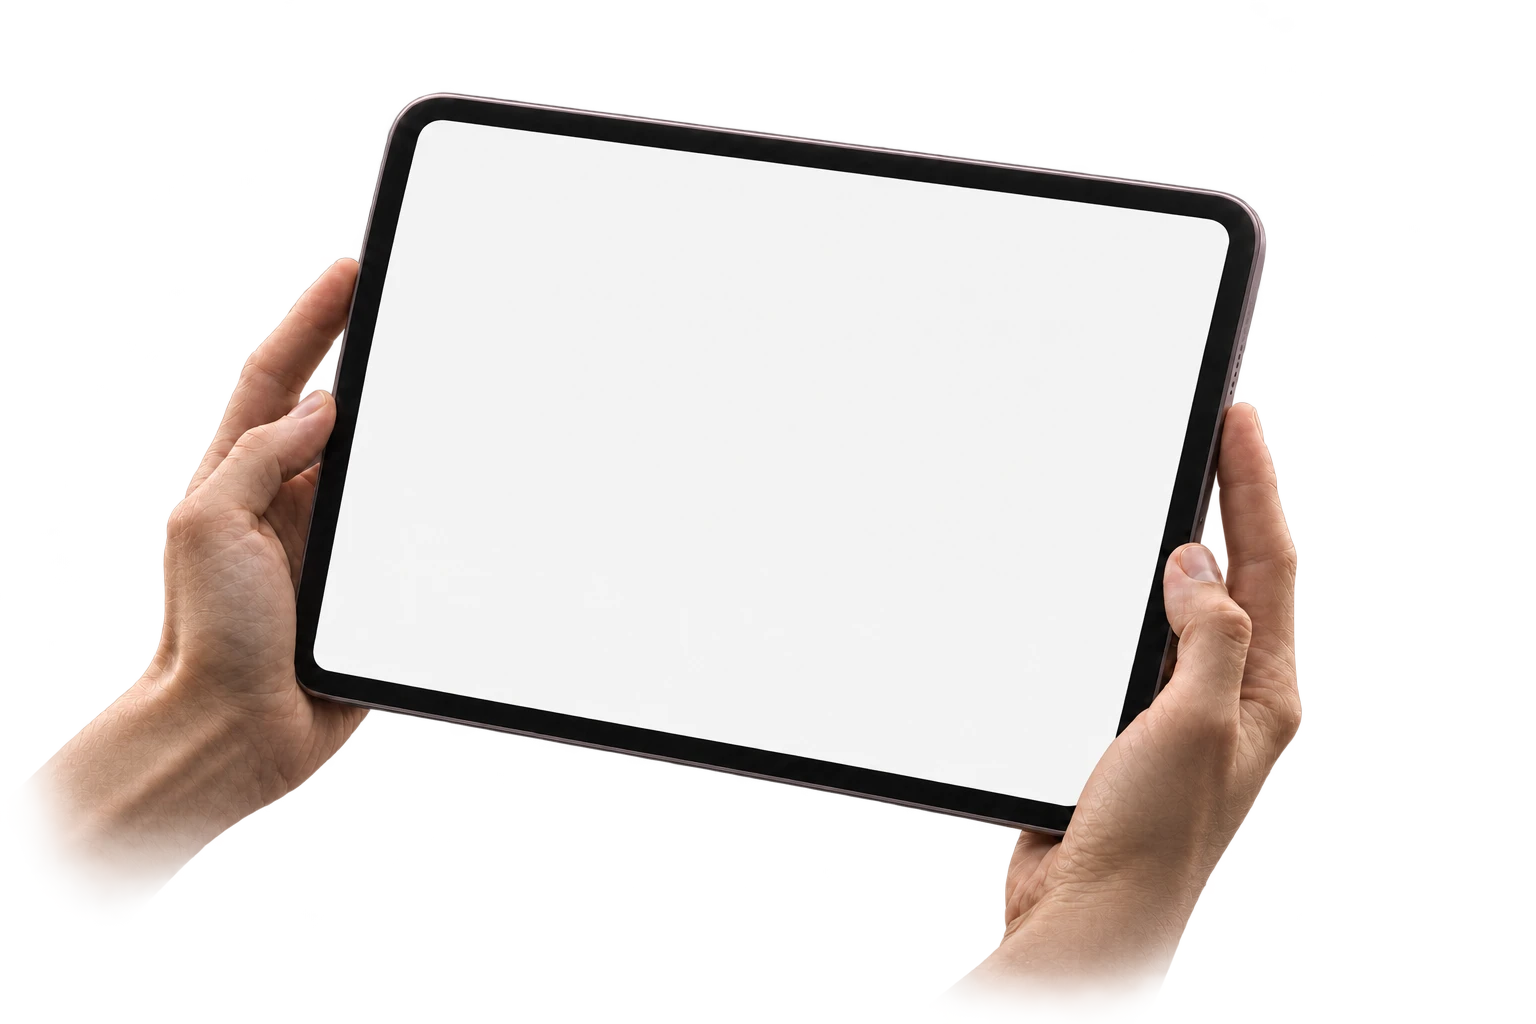
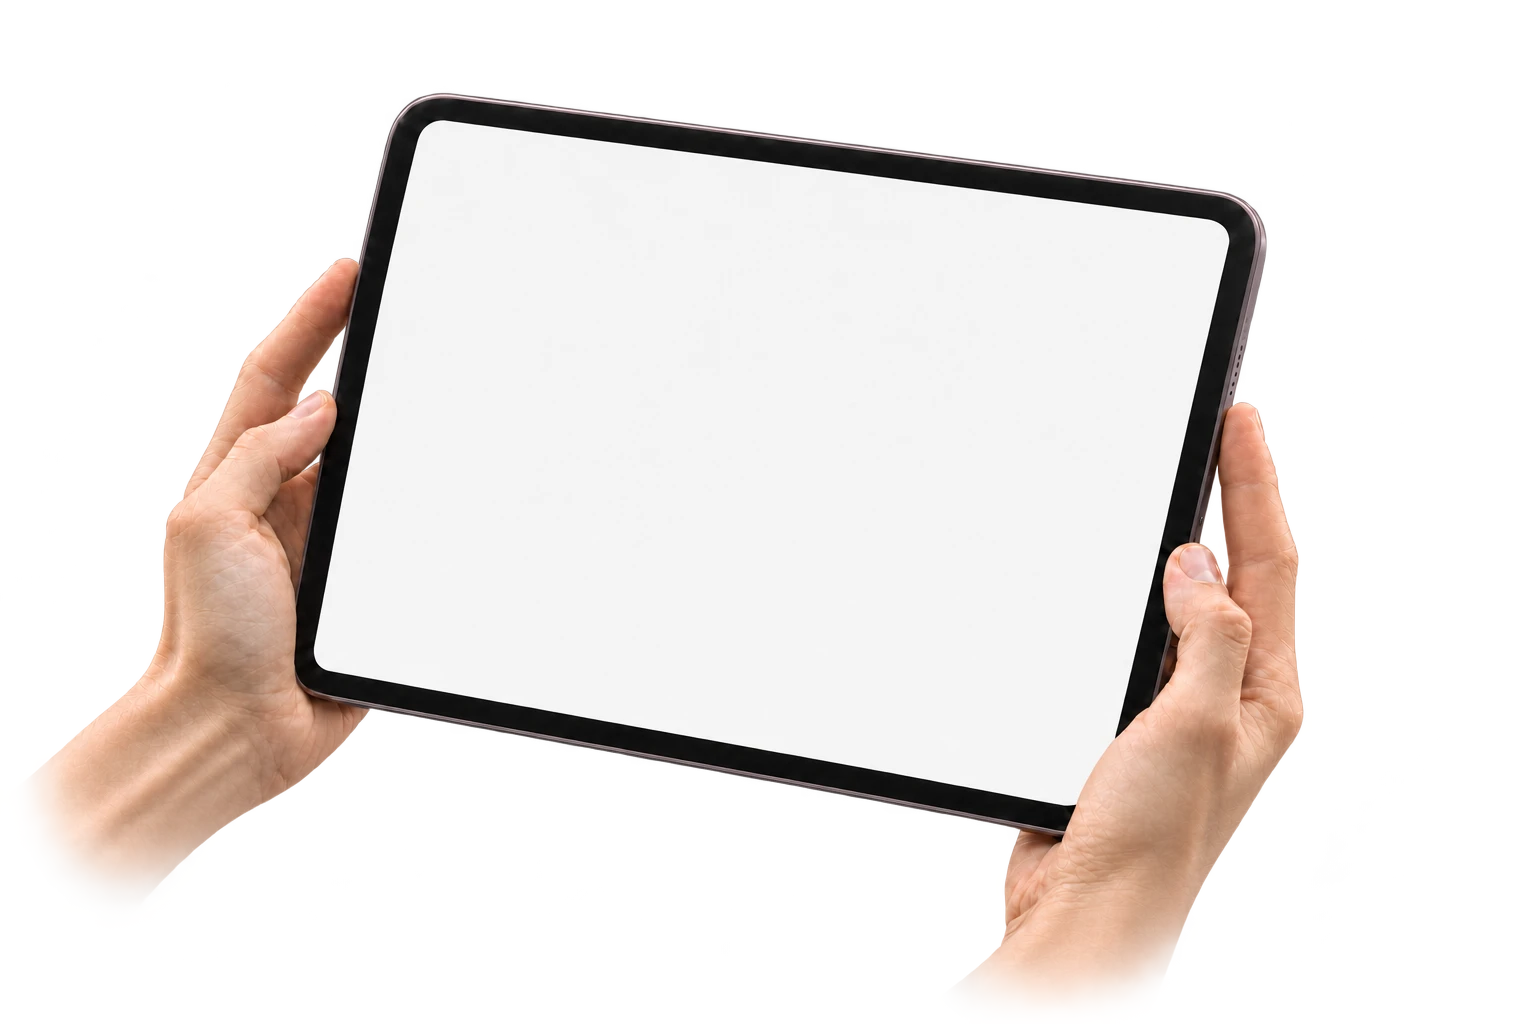
Use a woman’s hand for the phone and retouch both cutouts

diff --git a/docs/basic-service-showcase.md b/docs/basic-service-showcase.md
@@ -7,7 +7,7 @@
 ## 목업과 화면
 
 - 베이직은 실버 모니터 앞에 손에 든 휴대폰을 놓는다. 모니터와 휴대폰은 같은 기능의 REAL MATCHA PC·모바일 캡처를 사용한다. 두 파일을 디코딩한 뒤 함께 교체하며, 확대나 원근 변환에도 사진과 합성 화면이 같은 모서리를 공유한다.
-- 다이닝은 로즈 화이트 윤곽광을 적용한 `public/assets/service-mockups-v2/handheld-tablet-soft-rose.webp`의 화면 모서리에 메뉴를 합성한다.
+- 다이닝은 남성의 두 손으로 든 태블릿 목업 `public/assets/service-mockups-v2/handheld-tablet-soft-rose.webp`를 쓴다. 로즈 화이트 윤곽광을 적용하고, 사진의 화면 모서리에 메뉴를 합성한다.
 - 디스플레이는 별도 이미지인 `display-ceiling-three.webp`와 `display-close-up-single.webp`를 위아래로 합성한다. 큰 모니터의 베젤을 기준으로 전체 크기와 위치를 잡고, 천장형 세 대는 위에 한 단계 작게 배치한다. 소개와 상단 세 화면에는 목업의 임시 썸머블루가 보인다. 아래 큰 화면의 기능별 메뉴 캡처는 `lib/service-story-screens.ts`에 등록하며 사진의 네 모서리에 맞춰 합성한다.
 - 실제 고객 메뉴는 그대로 렌더링한다. 홈의 캡처는 정지 이미지이며 주문이나 호출을 전송하지 않는다. 관리 화면 영상이 등록되면 데스크톱에서 공통 `MediaPlayback`으로 재생하며 장면 전환이나 이탈 시 정지한다. 현재는 비활성 재생 자리로 표시한다.
 
@@ -16,7 +16,7 @@
 하드웨어 원본과 조명 보정은 내장 ImageGen의 투명 배경 모드를 사용했다. 사이트는 알파를 보존한 WebP를 사용한다.
 
 - `public/assets/service-mockups-v2/silver-monitor.webp` — 실제 제품 사진처럼 보이는 무브랜드 27인치 16:9 모니터. 오른쪽이 약 5–6° 높게 보이는 얕은 원근, 가는 검은 베젤, 밝은 무광 실버 옆면과 받침대, 비어 있는 화면. 바닥, 로고, 배경 없이 투명하게 촬영한 구도.
-- `public/assets/service-mockups-v2/handheld-phone-soft-white.webp` — 성인의 손에 자연스럽게 잡힌 무브랜드 세로 스마트폰. 흑연빛 실버 옆면, 옅은 아이보리 화이트 윤곽광, 손가락이 가리지 않는 빈 화면, 투명 배경.
+- `public/assets/service-mockups-v2/handheld-phone-soft-white.webp` — 여성의 손에 자연스럽게 잡힌 무브랜드 세로 스마트폰. 흑연빛 실버 옆면, 옅은 아이보리 화이트 윤곽광, 손가락이 가리지 않는 빈 화면, 투명 배경. 휴대폰과 태블릿 목업의 손과 손목에는 눈에 띄는 체모가 없다.
 
 ## 검수
 
